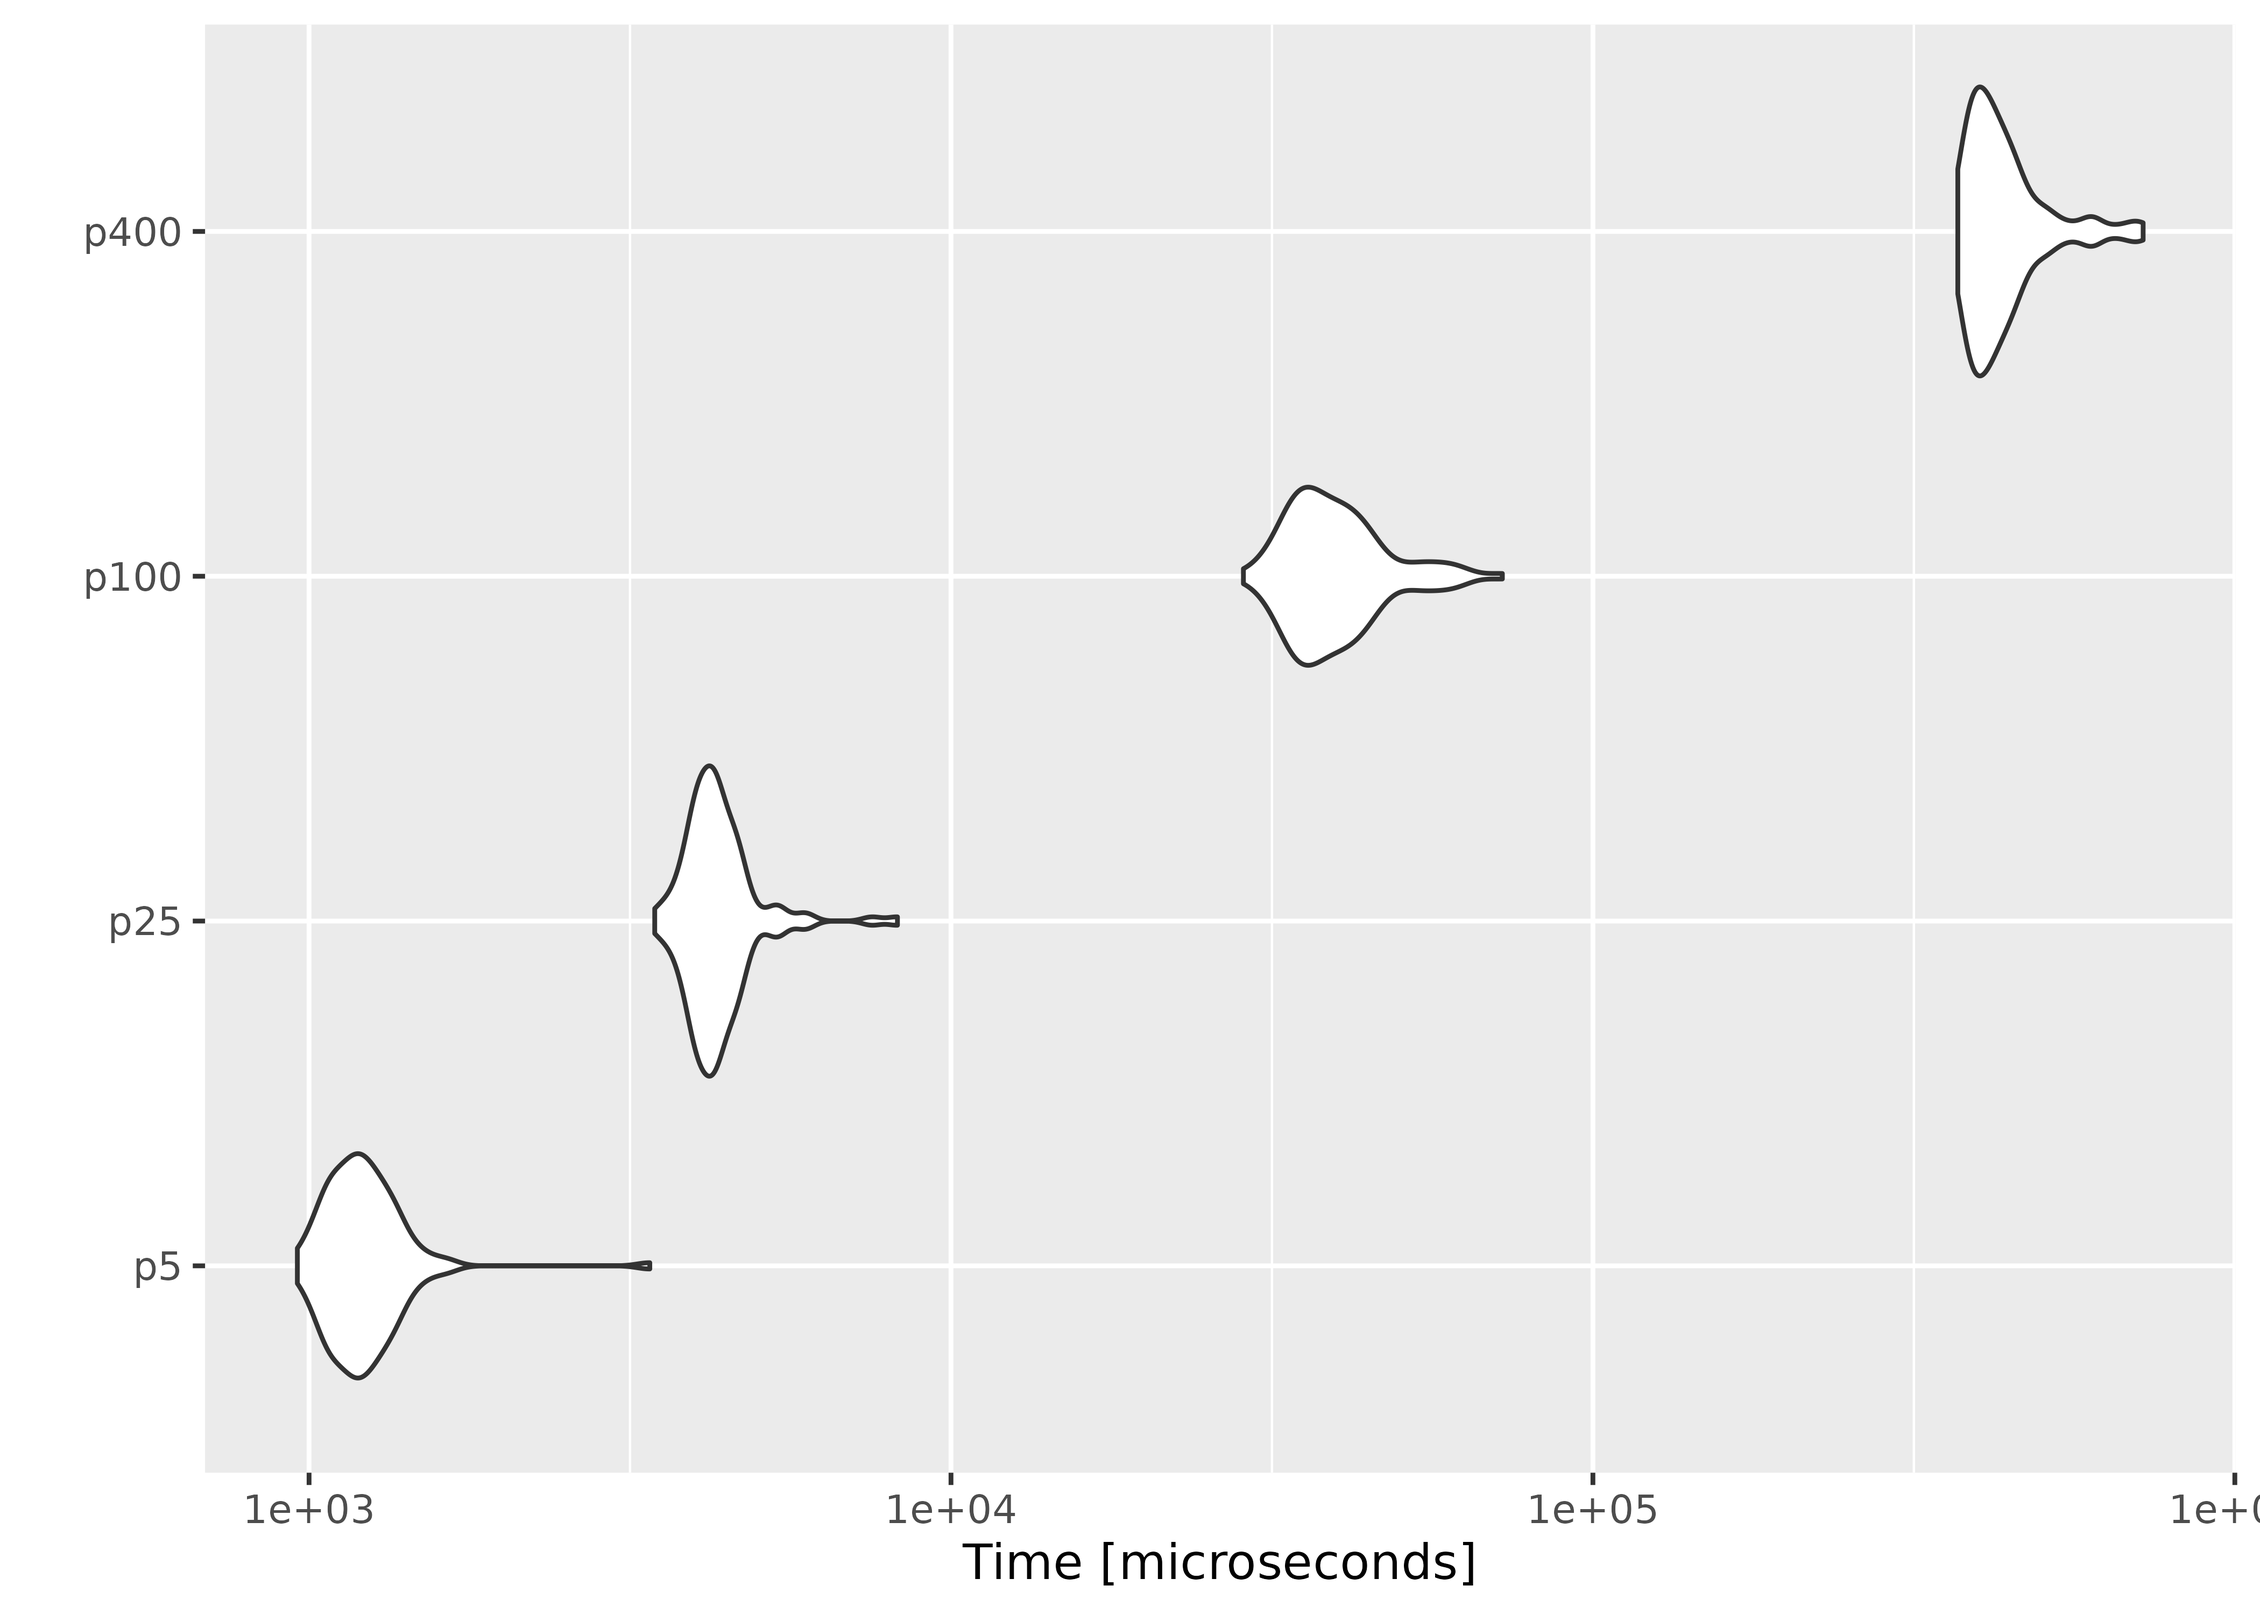
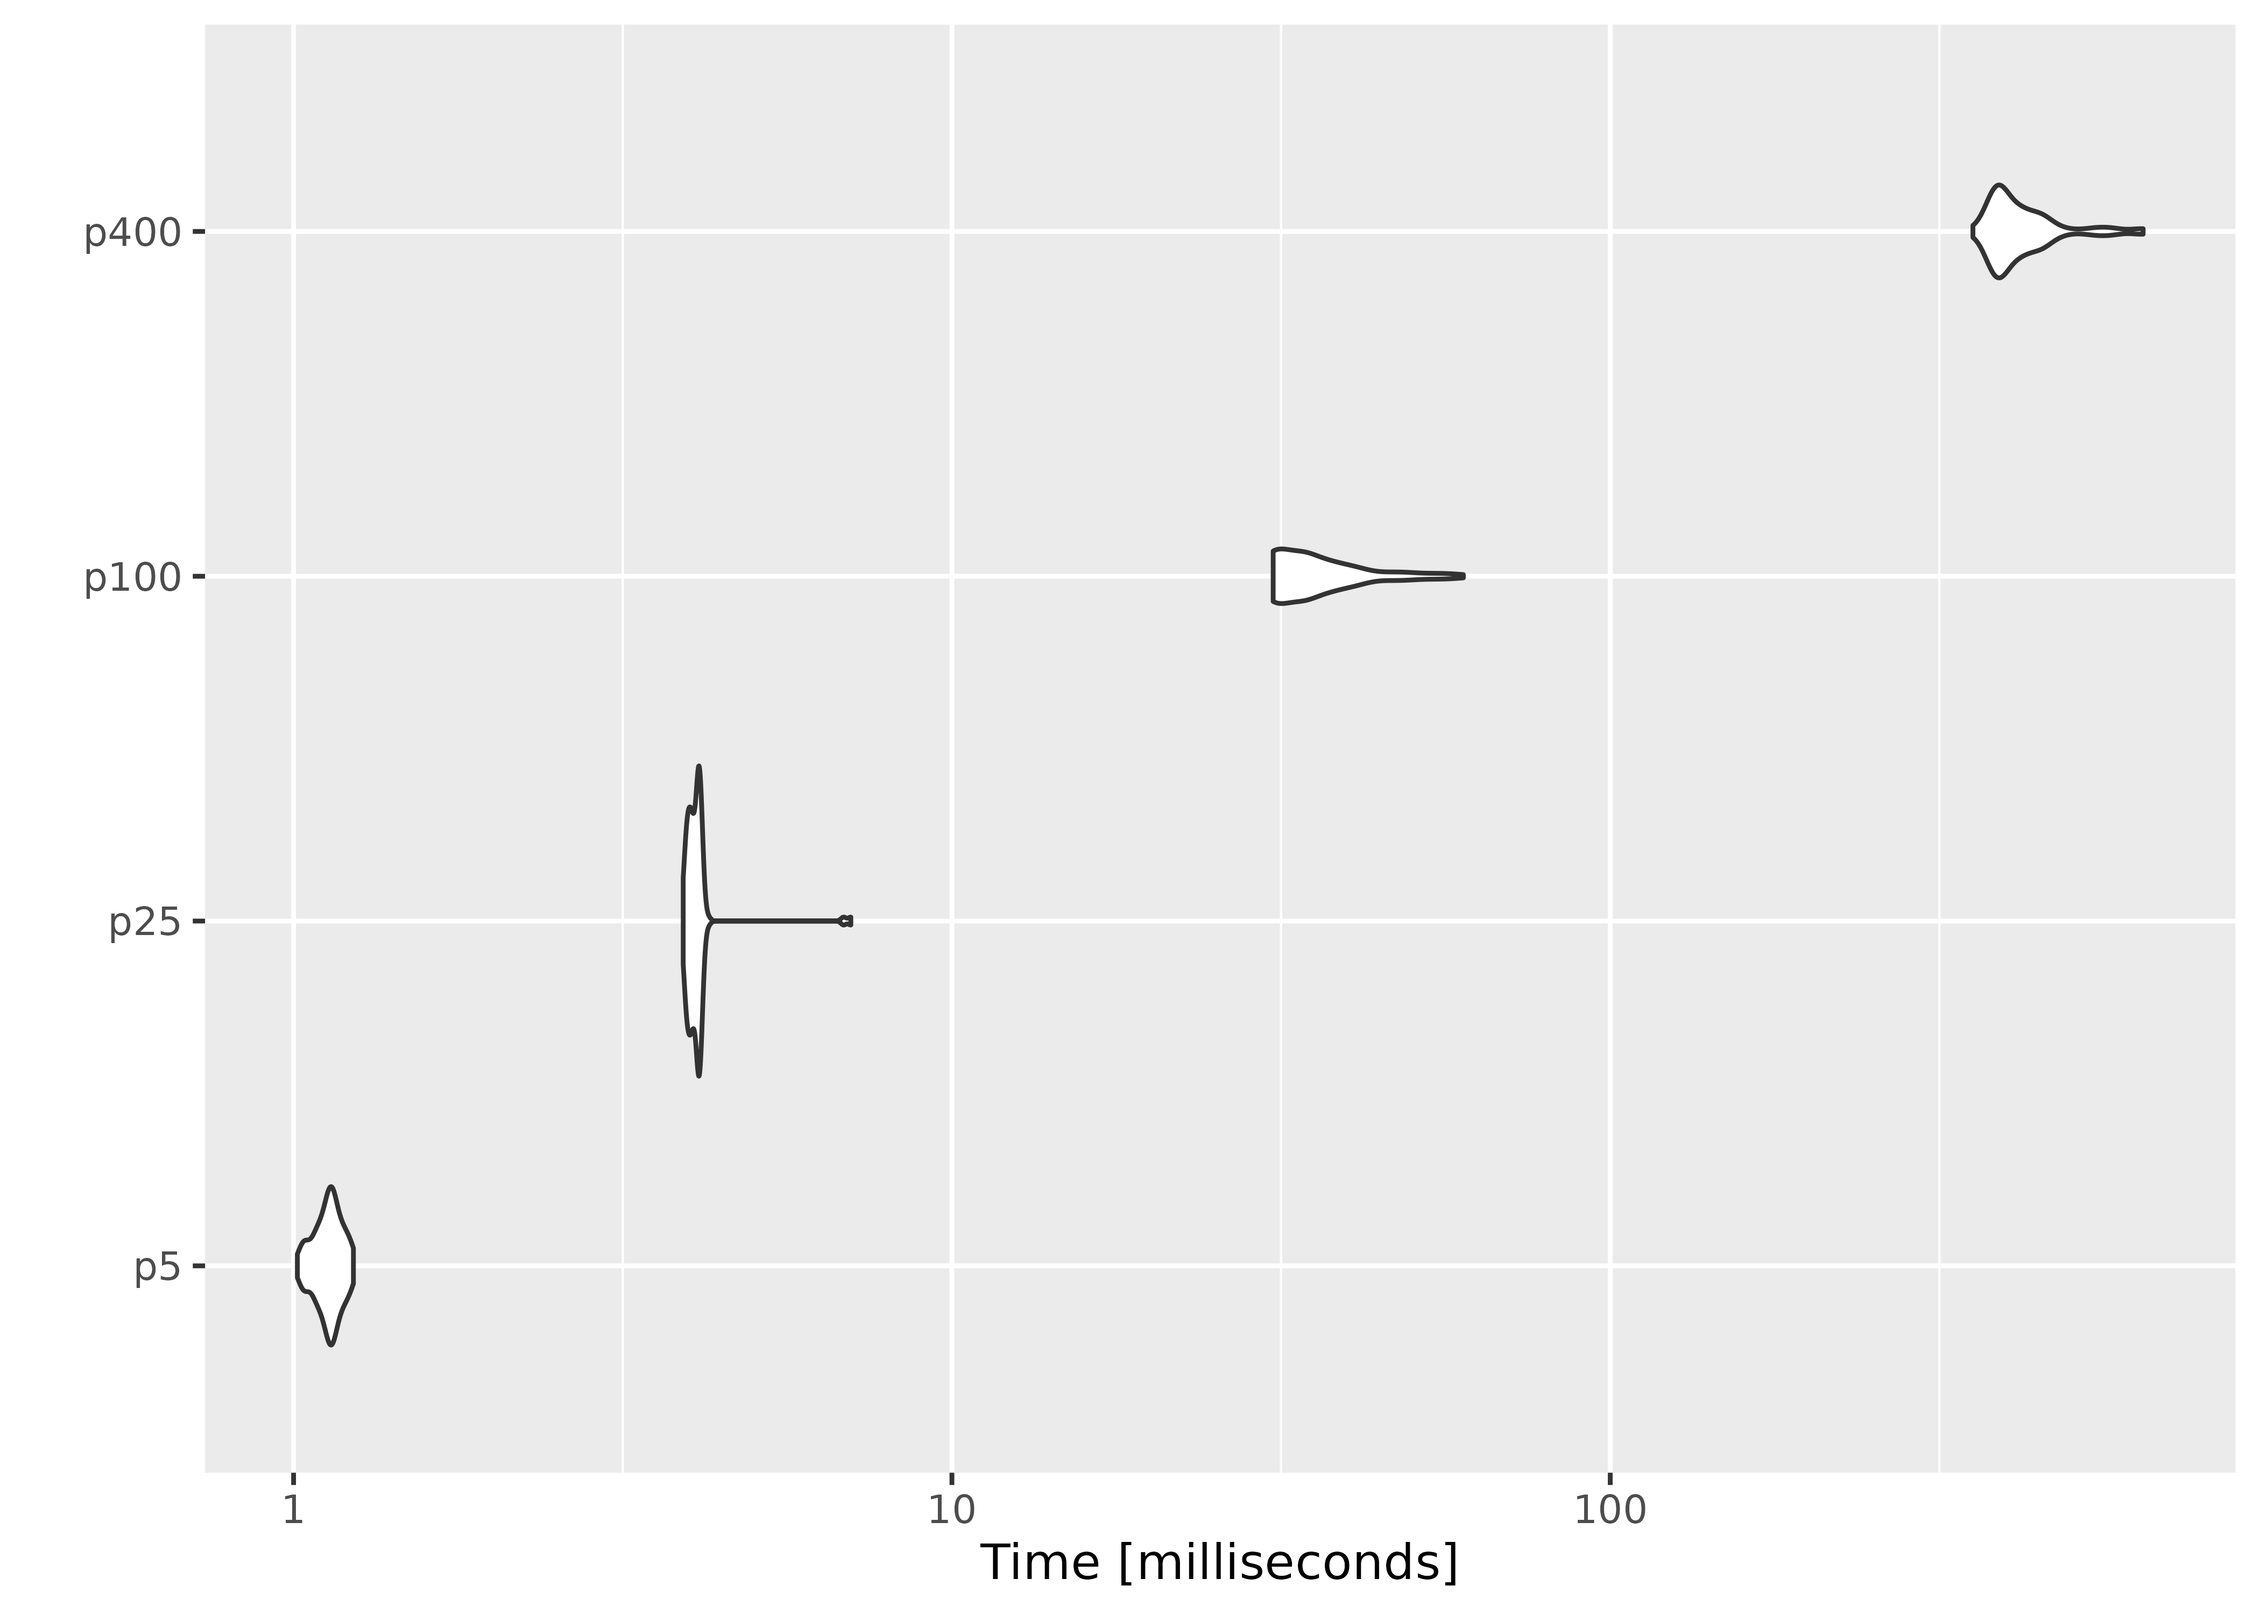
Deploying to gh-pages from @ ropensci/melt@fde57b6ec70dbd306996a5fee47c26b3125342d5 🚀

diff --git a/articles/performance.html b/articles/performance.html
@@ -138,10 +138,10 @@ parameters increases with the number of observations fixed.</p>
 <code class="sourceCode R"><span><span class="va">result</span></span>
 <span><span class="co">#&gt; Unit: microseconds</span></span>
 <span><span class="co">#&gt;  expr      min        lq       mean    median        uq      max neval</span></span>
-<span><span class="co">#&gt;  n1e2    633.2    731.85    840.541    781.00    894.90   1474.5   100</span></span>
-<span><span class="co">#&gt;  n1e3   1524.3   1987.40   2302.705   2237.40   2459.15   6010.8   100</span></span>
-<span><span class="co">#&gt;  n1e4  15946.1  20724.75  23521.791  23676.05  26122.40  31409.2   100</span></span>
-<span><span class="co">#&gt;  n1e5 280689.1 355214.20 410997.691 402058.50 455898.90 623805.7   100</span></span>
+<span><span class="co">#&gt;  n1e2    610.8    654.05    693.974    691.75    736.65    815.7   100</span></span>
+<span><span class="co">#&gt;  n1e3   1654.8   1906.55   2093.890   2027.65   2176.05   5295.3   100</span></span>
+<span><span class="co">#&gt;  n1e4  15716.0  17865.85  20636.089  21367.15  22687.45  25682.6   100</span></span>
+<span><span class="co">#&gt;  n1e5 298956.5 364449.60 422824.324 402290.05 483288.10 551005.6   100</span></span>
 <span><span class="fu"><a href="https://ggplot2.tidyverse.org/reference/autoplot.html" class="external-link">autoplot</a></span><span class="op">(</span><span class="va">result</span><span class="op">)</span></span></code></pre></div>
 <p><img src="performance_files/figure-html/unnamed-chunk-3-1.png" width="100%" style="display: block; margin: auto;"></p>
 </div>
@@ -172,12 +172,12 @@ likelihood at zero vectors of different sizes.</p>
 <span><span class="op">)</span></span></code></pre></div>
 <div class="sourceCode" id="cb5"><pre class="downlit sourceCode r">
 <code class="sourceCode R"><span><span class="va">result2</span></span>
-<span><span class="co">#&gt; Unit: microseconds</span></span>
+<span><span class="co">#&gt; Unit: milliseconds</span></span>
 <span><span class="co">#&gt;  expr      min        lq       mean    median        uq      max neval</span></span>
-<span><span class="co">#&gt;    p5    958.9   1097.15   1231.330   1191.55   1300.95   3394.7   100</span></span>
-<span><span class="co">#&gt;   p25   3455.3   4021.85   4375.804   4254.65   4577.45   8252.5   100</span></span>
-<span><span class="co">#&gt;  p100  28547.0  35059.35  40315.939  38662.75  43140.15  72265.0   100</span></span>
-<span><span class="co">#&gt;  p400 370209.5 394881.70 441464.013 419148.80 454856.30 719707.6   100</span></span>
+<span><span class="co">#&gt;    p5   1.0133   1.09330   1.130060   1.13515   1.16510   1.2328   100</span></span>
+<span><span class="co">#&gt;   p25   3.9070   3.99475   4.121149   4.08390   4.13355   7.0225   100</span></span>
+<span><span class="co">#&gt;  p100  30.7592  31.08925  36.482999  34.24210  37.64725  59.8200   100</span></span>
+<span><span class="co">#&gt;  p400 355.5744 387.20535 425.529195 391.55900 449.00785 644.8649   100</span></span>
 <span><span class="fu"><a href="https://ggplot2.tidyverse.org/reference/autoplot.html" class="external-link">autoplot</a></span><span class="op">(</span><span class="va">result2</span><span class="op">)</span></span></code></pre></div>
 <p><img src="performance_files/figure-html/unnamed-chunk-5-1.png" width="100%" style="display: block; margin: auto;">
 On average, evaluating empirical likelihood with a 100000×10 or 1000×400
